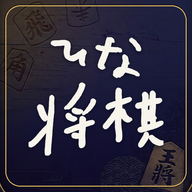
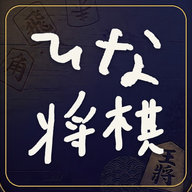
ロゴとアイコン: 「ひな」を「将棋」とほぼ同じはばに大きくする (6 割 → 9.5 割)
Claude-Session: https://claude.ai/code/session_018ByozwT5KrkXCSEL4kJBAn

diff --git a/index.html b/index.html
@@ -67,7 +67,7 @@ body {
 
 /* ---------------- ロゴ ---------------- */
 /* ロゴは、料金表より上の空きのまん中に置く (上下の auto で空きを分ける) */
-.logo { margin-top: auto; width: 300px;   /* 「ひな / 将棋」の 2 段。16 Plus で高さ約 265 */ text-align: center; animation: fude .9s cubic-bezier(.2, .8, .3, 1) both; }
+.logo { margin-top: auto; width: 290px;   /* 「ひな / 将棋」の 2 段。16 Plus で高さ約 295 */ text-align: center; animation: fude .9s cubic-bezier(.2, .8, .3, 1) both; }
 .logo img { display: block; width: 100%; height: auto; }
 @keyframes fude { from { opacity: 0; transform: translateY(10px) scale(.96); filter: blur(3px); } to { opacity: 1; transform: none; filter: none; } }
 
@@ -114,7 +114,7 @@ a:focus-visible { outline: 3px solid var(--kin-hi); outline-offset: 2px; }
 
 <a class="waku" href="./hina.html" aria-label="ひな将棋。おすと、ひなの歴史がひらく">
   <h1 class="logo">
-    <img src="./title-logo.png" width="900" height="795" alt="ひな将棋">
+    <img src="./title-logo.png" width="900" height="912" alt="ひな将棋">
   </h1>
 
   <p class="tap" aria-hidden="true">タップしてひらく</p>
